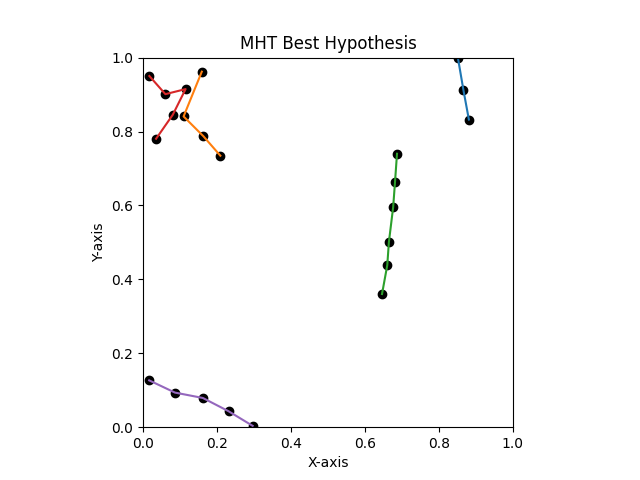
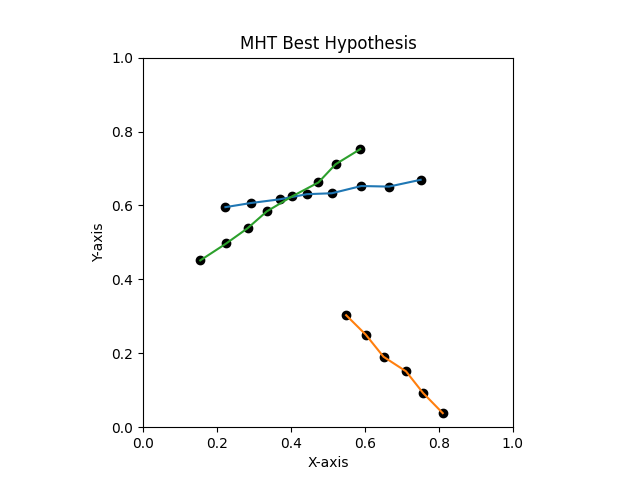
KF working

diff --git a/openmht/kalman_filter.py b/openmht/kalman_filter.py
@@ -10,12 +10,18 @@ class KalmanFilter:
     """Kalman filter for 2D & 3D vectors."""
     def __init__(self, initial_observation, v=307200, dth=1000, k=0, q=1e-5, r=0.01, nmiss=3, ck=False):
         self.__dims = len(initial_observation)
-        x = np.ndarray(shape=(self.__dims, 1), dtype=float, buffer=np.array(initial_observation))
-        self.__Q = np.diag(np.full(self.__dims, q))
-        self.xhat = x  # a posteri estimate of x
-        self.__P = np.identity(self.__dims)
-        self.__K = k  # gain or blending factor
-        self.__R = r  # estimate of measurement variance, change to see effect
+        self.initial = np.ndarray(shape=(self.__dims, 1), dtype=float, buffer=np.array(initial_observation))
+        self.Q = np.diag(np.full(self.__dims * 2, q))
+        self.xhat = False  # a posteri estimate of x
+        self.P = np.identity(self.__dims * 2)
+        self.K = k  # gain or blending factor
+        self.R = np.diag([r, r])  # estimate of measurement variance, change to see effect
+        self.F = np.array([[1, 1, 0, 0],  # Assuming constant velocity in x direction
+                           [0, 1, 0, 0],  # Velocity does not affect position
+                           [0, 0, 1, 1],  # Assuming constant velocity in y direction
+                           [0, 0, 0, 1]])  # Velocity does not affect position
+        self.H = np.array([[1, 0, 0, 0],  # Measure x directly
+                           [0, 0, 1, 0]])
         self.__image_area = v
         self.__missed_detection_score = np.log(1. - (1. / self.__image_area))
         self.__track_score = self.__missed_detection_score 
@@ -24,6 +30,8 @@ class KalmanFilter:
         self.meas = 0
         self.v = False
         self.ck = ck
+        self.x = False
+        self.hist = []
 
     def get_track_score(self):
         """Return the track score."""
@@ -36,7 +44,8 @@ class KalmanFilter:
             
             # Increment missed detection counter
             self.__nmiss += 1
-            if self.ck: self.xhat += self.v
+            if self.ck:
+                self.x = np.dot(self.F, self.x)
 
             # Prune track if missed detection counter exceeds threshold
             if self.__nmiss > 3:
@@ -48,25 +57,38 @@ class KalmanFilter:
             self.meas += 1
 
             # Time update
-            x = np.ndarray(shape=(self.__dims, 1), dtype=float, buffer=np.array(z))
-            if self.ck and self.meas > 1: self.v = x - self.xhat
-            mu = self.xhat + self.v
-            sigma = self.__P + self.__Q
-            d_squared = self.__mahalanobis_distance(x, mu, sigma)
-            d = np.linalg.norm(x - mu)
+            z = np.ndarray(shape=(self.__dims, 1), dtype=float, buffer=np.array(z))
+            if self.meas == 1:
+                self.hist.append(self.initial)
+                v = z - self.initial
+                self.x = np.array([self.initial[0], v[0], self.initial[1], v[1]])
+
+            x_ = np.dot(self.F, self.x)
+            P_ = np.dot(np.dot(self.F, self.P), self.F.T) + self.Q
+            d = np.linalg.norm(z - x_[[0, 2]])
+            # mu = self.xhat + self.v
+            # sigma = self.P + self.Q
+            # d_squared = self.__mahalanobis_distance(x, mu, P_)
 
             # Gating
             if d <= self.__d_th:
-                self.__track_score += self.__motion_score(sigma, d)
+                self.__track_score += self.__motion_score(P_, d)
 
                 # Measurement update
-                self.__K = sigma / (sigma + self.__R)
-                x_hat = mu + np.dot(self.__K, (x - mu))
-                # if self.ck: self.v = x_hat - self.xhat
-                self.xhat = x_hat
-
-                I = np.identity(self.__dims)
-                self.__P = (I - self.__K) * sigma
+                z_pred = np.dot(self.H, x_)
+                S = np.dot(np.dot(self.H, P_), self.H.T) + self.R
+                K = np.dot(np.dot(P_, self.H.T), np.linalg.inv(S))
+                self.x = x_ + np.dot(K, (z - z_pred))
+                self.P = np.dot((np.eye(len(self.x)) - np.dot(K, self.H)), P_)
+                self.hist.append(self.x)
+                # y = z -
+                # self.K = P_ / (P_ + self.R)
+                # x_hat = mu + np.dot(self.K, (x - mu))
+                # # if self.ck: self.v = x_hat - self.xhat
+                # self.xhat = x_hat
+                #
+                # I = np.identity(self.__dims)
+                # self.P = (I - self.K) * P_
 
         return True
 

diff --git a/run.py b/run.py
@@ -10,7 +10,7 @@ from truth_data import simulate, visualize_simulation
 
 def generate_data():
     num_objects = 4
-    num_steps = 5
+    num_steps = 7
     velocity = 0.075
     noise_std = 0.005  # Standard deviation of Gaussian noise
     missed_detection_prob = 0.02  # Probability of missed detection
@@ -47,30 +47,30 @@ def plot_MTT(tracks):
 
 parameters = {
     'v': 307200,
-    'dth': 0.25,
+    'dth': 0.5,
     'k': 0,
     'q': 0.00001,
-    'r': 0.005,
+    'r': 0.01,
     'n': 2,
-    'bth': 250,
+    'bth': 150,
     'nmiss': 2,
     'pd': 0.98,
-    'ck': False
+    'ck': True
 }
 
-# generate_data()
+generate_data()
 sample_file = "SampleData/SampleInput.csv"
 file = "data.csv"
 detections = read_uv_csv(file)
 
-mht = MHT(detections, parameters)
-mhtSol = mht.run()
-write_uv_csv("mhtSol.csv", mhtSol)
-plot_MTT(mhtSol)
+# mht = MHT(detections, parameters)
+# mhtSol = mht.run()
+# write_uv_csv("mhtSol.csv", mhtSol)
+# plot_MTT(mhtSol)
 
 
-# my = MyMHT(detections, parameters)
-# mySol = my.run()
-# write_uv_csv("mySol.csv", mySol)
-# plot_MTT(mySol)
+my = MyMHT(detections, parameters)
+mySol = my.run()
+write_uv_csv("mySol.csv", mySol)
+plot_MTT(mySol)
 

diff --git a/MyMHT.py b/MyMHT.py
@@ -73,6 +73,8 @@ class MyMHT:
         for i in sorted(self.prune_ids, reverse=True):
             del self.track_hists[i]
             del self.track_leaves[i]
+        # if k == len(self.observation_history) - 1:
+        #     for kf in self.track_leaves: print(kf.hist)
         return solution_coordinates
 
     def add_missed_detections(self):
